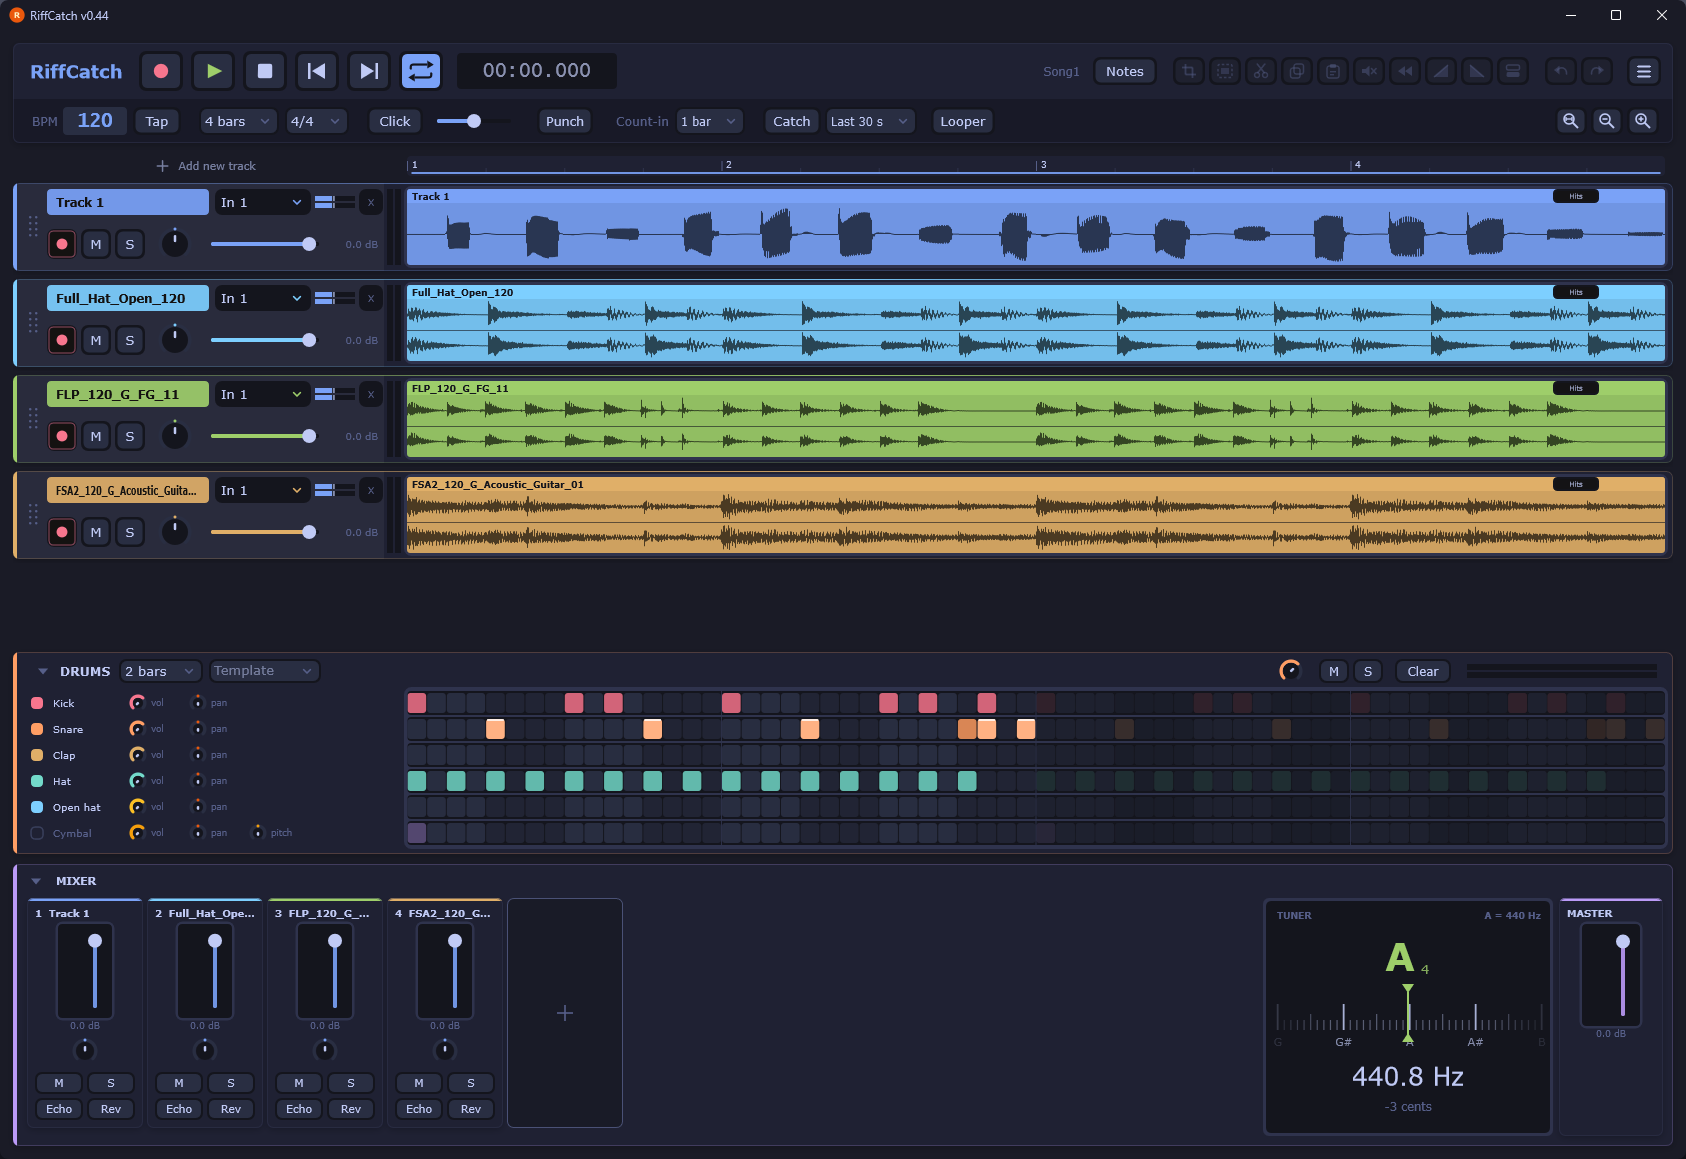
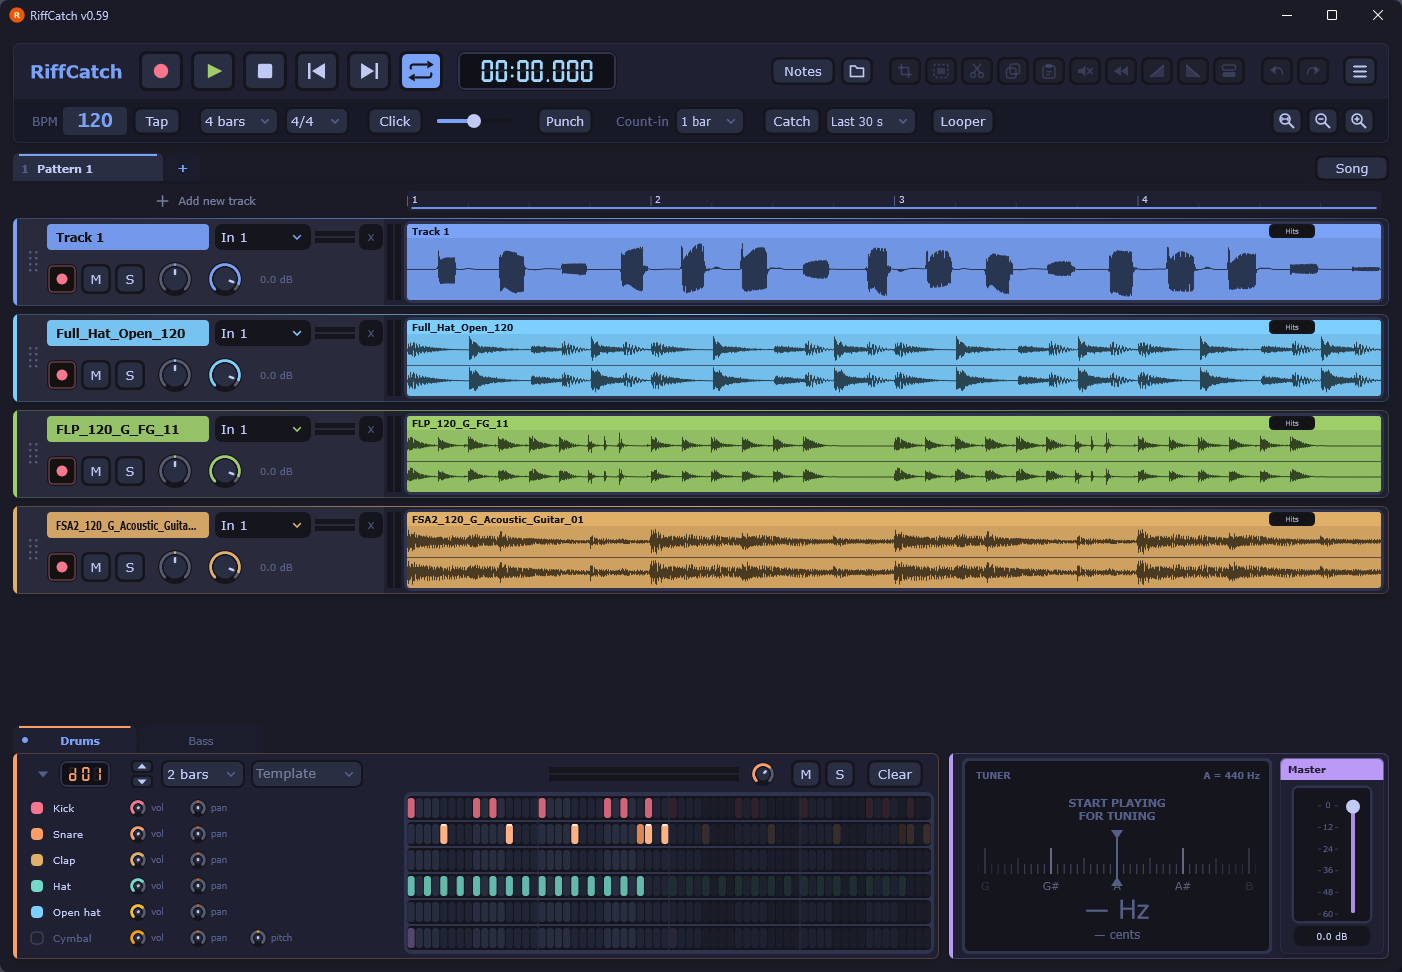
Fix track volume knob reset by restyle, light blue digits and framed clock, new screenshots and README for patterns, song and bass roll

diff --git a/Source/ui/SegmentDisplay.h b/Source/ui/SegmentDisplay.h
@@ -5,6 +5,8 @@
 // Seven-segment display drawing, like an old countdown timer: lit segments in the display colour, unlit ones as a faint ghost.
 namespace Seg
 {
+    inline juce::Colour digitColour { 0xff9fd8ff };    // lit segments: light blue (counter and clock)
+
     // segments a (top), b (upper right), c (lower right), d (bottom), e (lower left), f (upper left), g (middle)
     constexpr int sa = 1, sb = 2, sc = 4, sd = 8, se = 16, sf = 32, sg = 64;
     constexpr int maskD = sb | sc | sd | se | sg, maskB = sc | sd | se | sf | sg;
@@ -58,7 +60,7 @@ class SegmentClock : public juce::Component
 {
 public:
     void setText (const juce::String& t) { if (t != text) { text = t; repaint(); } }
-    void setColour (juce::Colour c) { if (c != colour) { colour = c; repaint(); } }
+    void setColour (juce::Colour) {}                     // the digits always use Seg::digitColour
 
     void paint (juce::Graphics& g) override
     {
@@ -69,15 +71,15 @@ public:
             for (auto c : text) w += (juce::CharacterFunctions::isDigit (c) ? Seg::glyphWidth (h) : Seg::colonWidth (h)) + h * gap;
             return w - h * gap;
         };
-        float h = juce::jmin (getHeight() - 10.0f, 30.0f);
+        float h = juce::jmin (getHeight() - 18.0f, 30.0f);       // some air above and below the digits
         while (h > 8.0f && widthFor (h) > getWidth() - 14.0f) h -= 1.0f;
         float x = ((float) getWidth() - widthFor (h)) * 0.5f;
         const float y = ((float) getHeight() - h) * 0.5f;
         for (auto c : text)
         {
-            if (juce::CharacterFunctions::isDigit (c)) { Seg::glyph (g, x, y, h, Seg::digitMask (c - '0'), colour); x += Seg::glyphWidth (h); }
-            else if (c == ':') { Seg::colon (g, x, y, h, colour); x += Seg::colonWidth (h); }
-            else { Seg::dot (g, x, y, h, colour); x += Seg::colonWidth (h); }
+            if (juce::CharacterFunctions::isDigit (c)) { Seg::glyph (g, x, y, h, Seg::digitMask (c - '0'), Seg::digitColour); x += Seg::glyphWidth (h); }
+            else if (c == ':') { Seg::colon (g, x, y, h, Seg::digitColour); x += Seg::colonWidth (h); }
+            else { Seg::dot (g, x, y, h, Seg::digitColour); x += Seg::colonWidth (h); }
             x += h * gap;
         }
     }

diff --git a/Source/MainComponent.cpp b/Source/MainComponent.cpp
@@ -1308,8 +1308,15 @@ void MainComponent::paint (juce::Graphics& g)
     }
     g.setColour (Theme::raised);
     g.fillRoundedRectangle (bpmLabel.getBounds().toFloat(), Theme::radius);
-    g.setColour (Theme::deep);                                            // clock in a dark display box
-    g.fillRoundedRectangle (timeLabel.getBounds().toFloat(), Theme::radius);
+    {   // clock in the same display as the drum / bass counter: black line, lighter ring, dark inside
+        const auto d = timeLabel.getBounds().toFloat().reduced (3.0f);
+        g.setColour (Theme::frame);
+        g.fillRoundedRectangle (d.expanded (3.0f), Theme::radiusLg + 1.5f);
+        g.setColour (Theme::border);
+        g.fillRoundedRectangle (d.expanded (2.0f), Theme::radiusLg + 1.0f);
+        g.setColour (Theme::deep.darker (0.2f));
+        g.fillRoundedRectangle (d, Theme::radius);
+    }
 }
 
 void MainComponent::resized()
@@ -1325,7 +1332,7 @@ void MainComponent::resized()
     skipStartBtn.setBounds (bar.removeFromLeft (44)); bar.removeFromLeft (8);
     skipEndBtn.setBounds (bar.removeFromLeft (44)); bar.removeFromLeft (8);
     loopBtn.setBounds (bar.removeFromLeft (44)); bar.removeFromLeft (14);
-    timeLabel.setBounds (bar.removeFromLeft (160).reduced (0, 2));
+    timeLabel.setBounds (bar.removeFromLeft (160));          // as tall as the transport buttons
     clock.setBounds (timeLabel.getBounds());
     barLabel.setBounds (bar.removeFromLeft (140));
 

diff --git a/Source/ui/TrackRow.cpp b/Source/ui/TrackRow.cpp
@@ -15,7 +15,6 @@ static void styleFader (juce::Slider& s, juce::Colour accent, bool horizontal)
     s.setColour (juce::Slider::trackColourId, accent);
     s.setWantsKeyboardFocus (false);
 }
-
 static void styleFlat (juce::TextButton& b, juce::Colour on)
 {
     b.setClickingTogglesState (true);
@@ -259,7 +258,7 @@ void TrackRow::restyle()
     input.setColour (juce::ComboBox::textColourId, Theme::text);
     del.setColour (juce::TextButton::textColourOffId, Theme::dim);
     pan.setColour (juce::Slider::rotarySliderFillColourId, accent);
-    styleFader (fader, accent, true);
+    fader.setColour (juce::Slider::rotarySliderFillColourId, accent);       // (the volume is a knob: only the colour changes with the theme)
     dbLabel.setColour (juce::Label::textColourId, Theme::dim);
     hitsBtn.setColour (juce::TextButton::buttonOnColourId, Theme::accent);
     takeLabel.setColour (juce::Label::textColourId, Theme::text);

diff --git a/Source/ui/LibraryCounter.h b/Source/ui/LibraryCounter.h
@@ -35,7 +35,7 @@ public:
         g.setColour (Theme::deep.darker (0.2f));
         g.fillRoundedRectangle (d, Theme::radius);
 
-        const auto lit = themeColour().withAlpha (filled ? 1.0f : 0.7f);
+        const auto lit = Seg::digitColour.withAlpha (filled ? 1.0f : 0.7f);
         const float dh = d.getHeight() - 8.0f, gapX = dh * 0.3f;
         float x = d.getX() + 7.0f;
         const float y = d.getY() + 4.0f, dw = Seg::glyphWidth (dh);

diff --git a/README.md b/README.md
@@ -11,6 +11,7 @@ A lightweight multitrack looper and recorder for guitarists, built with JUCE and
 - Loop lengths from 1 to 64 bars, sample-synchronous transport
 - Time signatures 2/4, 3/4, 4/4, 5/4, 6/8 and 7/8 (BPM counts quarter notes; the click, ruler, loop length and drum grid follow)
 - Count-in, metronome click with volume, tap tempo
+- The waveform grows live while you record, also during loop recording; the clock is a seven-segment display
 - Punch in/out recording
 - Undo/redo for editing actions
 - Autosave with restore prompt after a crash
@@ -31,10 +32,13 @@ A lightweight multitrack looper and recorder for guitarists, built with JUCE and
 - Mono bass synth with a step sequencer, in a tab next to the drums (Drums | Bass); a tab is filled with the primary colour when it holds a pattern
 - Piano-roll style grid in a chosen key and scale (root E-D#, seven scales); click to add a note, drag right for length (drones up to 8 bars), drag up/down for pitch, drag the right edge of a note to resize it, click a note to remove it, drag across notes to wipe them, right-click = accent, Ctrl+click = slide
 - Sound: saw / square / triangle, sub oscillator, 24 dB low-pass with resonance and envelope, decay, sustain, glide and drive; five presets (Sub, Pluck, Fat saw, Acid, Square); per-bass echo and reverb
-- Chromatic scale shows every note (13 rows, C2-C3 with root C; Oct-/Oct+ move the window); Random generates notes inside the scale on a 1/4, 1/8 or 1/16 grid with density, random lengths, range and repeat options (right-click rolls again)
+- The mouse wheel scrolls the piano roll up and down to reach other octaves (C rows show the octave number); the chromatic scale shows every note (13 rows). Random generates notes inside the scale on a 1/4, 1/8 or 1/16 grid with density, random lengths, range and repeat options (right-click rolls again)
 - Templates for every time signature, including "Lock to kick" (root note on every kick of the drum pattern), and chord progressions that transpose the pattern bar by bar
 - Bake renders the line to a normal audio track; Rec records one loop pass live (with count-in) so knob moves such as Cutoff are captured as audio
 - Pattern, key and sound are saved in the project and included in the export
+
+![Bass templates and scales](docs/screenshots/bass-templates.png)
+
 ### Riff analysis
 - Right-click a recorded clip and choose "Analyze riff and suggest bass..." (no AI involved, plain signal analysis)
 - Finds the tempo, the key and scale or mode (minor and major, pentatonic, blues, Dorian, Phrygian, Lydian, Mixolydian) with alternatives to pick from, one chord per bar, and the rhythm of the riff on the 1/16 grid
@@ -50,13 +54,15 @@ A lightweight multitrack looper and recorder for guitarists, built with JUCE and
 - Import audio files (WAV and others) onto a new track by menu, drag and drop, or right-click in the empty area below the tracks
 
 ### Patterns and song
-- Up to 16 patterns (tabs above the tracks, with name and colour; double-click a tab to rename it). Each pattern has its own tracks, with their volume, pan, mute, solo, Echo and Reverb, its own audio clips and loop length
-- Drum and bass patterns are a shared library (D01..D16, B01..B16). A seven-segment counter in each card chooses which one the open pattern plays; counting to a new number starts an empty pattern. Several patterns can play the same one
-- Song mode: one row of pattern blocks in play order, with repeats (drag to reorder, wheel to change repeats, right-click for the menu). Play renders the whole song and plays it; export bounces the whole song
+- Up to 16 patterns (tabs above the tracks, with name and colour; double-click a tab to rename it in place, right-click for colour, duplicate, clear and delete). Each pattern has its own tracks, with their volume, pan, mute, solo, Echo and Reverb, its own audio clips and its own loop length, so pattern 1 can use two tracks and pattern 2 five. Only one track is armed at a time, and the arming follows the track position when you switch pattern
+- Drum and bass patterns are a shared library (D01..D16, B01..B16). A seven-segment counter in the header of each card, with up and down arrows (or the wheel), chooses which one the open pattern plays. A new pattern starts on the same ones; counting to a number that does not exist yet starts an empty pattern, and an empty pattern nobody plays disappears again. "x2" in the counter means several patterns play the same one. The controls that both cards have (counter, bars, volume, M, S, Clear) sit at the same place in both
+- Song mode (the Song button on the pattern tab row): one row of pattern blocks in play order, as wide as the bars they play. Click a block to open its pattern, drag to reorder, use the wheel for repeats, right-click for repeats, change pattern, duplicate and remove, "+" adds a pattern. Play renders the whole song and plays it with a line showing the position, so patterns change exactly on the bar; export bounces the whole song. Rec is disabled while Song is on
 
+![Song mode with the pattern tabs and the song row](docs/screenshots/song-mode.png)
 ### Mixer
 - Level meters, volume knob, pan, mute, solo, plus Echo and Reverb on every track row
 - Master strip with stereo meter, next to the tuner
+
 ### Tuner
 - Chromatic tuner next to the master strip, fed from the input of the armed track (or track 1). Scrolling cent ruler, note name, Hz and cents, adjustable A reference (430-450 Hz, remembered)
 
